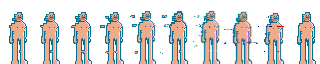
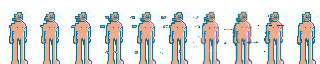
Sprite Studio UI overhaul: timeline slots, toolbar redesign, panel cleanup; ignore TAH!PES

diff --git a/AH-Sprite-Studio.html b/AH-Sprite-Studio.html
@@ -46,7 +46,8 @@
   #editCanvasWrap{position:relative;flex:none}   /* hugs the canvas exactly → grid background aligns pixel-perfect at any zoom */
   #edSelBox{position:absolute;left:0;top:0;width:0;height:0;display:none;border:1px dashed var(--accent2);box-shadow:0 0 0 1px #0008;pointer-events:none;z-index:3}
   #editCanvas{image-rendering:pixelated;touch-action:none;cursor:crosshair;box-shadow:0 0 0 1px #0003;flex:none;display:block}
-  #editTools{display:flex;gap:4px;align-items:center;padding:5px 7px;border-top:1px solid var(--line);background:#191822;flex-wrap:wrap}
+  #editTools{display:flex;flex-direction:column;gap:5px;padding:5px 7px;border-top:1px solid var(--line);background:#191822}
+  .etoolsRow{display:flex;gap:4px;align-items:center;flex-wrap:wrap}
   .etool{width:27px;height:24px;display:flex;align-items:center;justify-content:center;border:1px solid var(--line);border-radius:4px;background:#0e0d13;color:var(--ink);cursor:pointer;font-size:13px;padding:0;line-height:1}
   .etool.on{border-color:var(--accent);color:var(--accent);background:#ffb0381a}
   .etool:disabled{opacity:.3;cursor:default}
@@ -56,7 +57,7 @@
   .ebtn:hover{border-color:var(--accent);color:var(--accent)}
   /* PROJECT / files */
   #project{flex:.85}
-  .addbtn{border:1px dashed var(--line);border-radius:6px;padding:14px;text-align:center;color:var(--dim);cursor:pointer;transition:.15s}
+  .addbtn{border:1px dashed var(--line);border-radius:6px;padding:4px;text-align:center;color:var(--dim);cursor:pointer;transition:.15s}
   .addbtn:hover,.addbtn.drag{border-color:var(--accent);color:var(--accent);background:#ffb0380d}
   .flist{margin-top:10px;display:flex;flex-direction:column;gap:4px}
   .frow{display:flex;align-items:center;gap:8px;padding:6px 8px;border-radius:5px;cursor:pointer;border:1px solid transparent}
@@ -89,12 +90,12 @@
   /* ANIMATION (now a bar docked under the PREVIEW/EDITOR stage) */
   #animBar{border-top:1px solid var(--line);padding:8px 10px;flex:none;background:#191822}
   .transport{display:flex;gap:6px;margin-bottom:12px}
-  .tb{flex:1;background:var(--panel2);border:1px solid var(--line);color:var(--ink);border-radius:6px;padding:6px 0;font-size:15px;cursor:pointer}   /* height trimmed ~20% */
+  .tb{flex:1;background:var(--panel2);border:1px solid var(--line);color:var(--ink);border-radius:6px;padding:2px 0;font-size:15px;cursor:pointer}   /* height trimmed ~20% */
   .tb:hover{border-color:var(--accent);color:var(--accent)}
   .tb.play{background:var(--accent);color:#111;border-color:var(--accent)}
   .field{display:flex;align-items:center;gap:8px;margin-bottom:9px}
   .field label{width:74px;color:var(--dim);font-size:11px;letter-spacing:1px}
-  .field input{background:#0e0d13;border:1px solid var(--line);color:var(--ink);border-radius:5px;padding:6px 8px;font:inherit;width:100%}
+  .field input{background:#0e0d13;border:1px solid var(--line);color:var(--ink);border-radius:5px;padding:3px 4px;font:inherit;width:20%}
   .field input:focus{outline:0;border-color:var(--accent)}
   .field .unit{color:var(--dim);font-size:10px;flex:none}
   .stepbtn{flex:none;width:22px;height:26px;background:#0e0d13;border:1px solid var(--line);color:var(--ink);border-radius:4px;font:inherit;font-size:13px;cursor:pointer;line-height:1;padding:0}
@@ -111,7 +112,7 @@
   .ruler{height:22px;position:relative;border-bottom:1px solid var(--line);flex:none;color:var(--dim);font-size:9px}
   .ruler .tick{position:absolute;top:0;bottom:0;border-left:1px solid var(--line)}
   .ruler .tick span{position:absolute;top:2px;left:3px}
-  .track{flex:1;display:flex;align-items:center;gap:0;padding:10px 0;overflow-x:auto;overflow-y:hidden;min-height:0;position:relative}
+  .track{flex:1;display:flex;align-items:center;gap:0;padding:10px 14px;overflow-x:auto;overflow-y:hidden;min-height:0;position:relative}
   .track.drag{background:#57d6c40d;box-shadow:inset 0 0 0 2px var(--accent2)}
   .slot{position:relative;flex:none;border:1px solid var(--line);border-radius:4px;margin:0 3px;background:#0005;cursor:grab;image-rendering:pixelated}
   .slot canvas{display:block;image-rendering:pixelated}
@@ -157,36 +158,40 @@
 </style>
 
 <header>
-  <div class="hleft"><span class="vtabs"><span class="vtab on" id="tabPreview">PREVIEW</span><span class="vsep">·</span><span class="vtab" id="tabEditor">EDITOR</span></span> <span id="pvinfo" class="muted"></span></div>
+  <div class="hleft"></div>
   <b class="htitle"><img src="assets/AH!logo.png" alt="AH!" class="logo-mark"> STUDIO</b>
-  <a class="hright backlink" href="/" title="Back to alterhero.xyz">← BACK</a>
+  <a class="hright backlink" href="home.html" title="Back to alterhero.xyz">← BACK</a>
 </header>
 
 <div class="row">
   <section class="panel" id="preview">
+    <div class="ptitle"><span class="vtabs"><span class="vtab on" id="tabPreview">PREVIEW</span><span class="vsep">·</span><span class="vtab" id="tabEditor">EDITOR</span></span><span id="pvinfo" class="muted"></span></div>
     <div class="stage"><canvas id="previewCanvas" width="64" height="64"></canvas>
       <div id="editorWrap">
         <div id="editScroll"><div id="editCanvasWrap"><canvas id="editCanvas" width="32" height="32"></canvas><div id="edSelBox"></div></div></div>
         <div id="editTools">
-          <button class="etool on" id="tBrush" title="Pixel brush">✏️</button>
-          <button class="etool" id="tEraser" title="Eraser">🧽</button>
-          <input type="color" id="editColor" value="#e24b4a" title="Color wheel">
-          <button class="etool" id="tEye" title="Eyedropper — tap a pixel to pick its color">🩸</button>
-          <span class="vsep">|</span>
-          <button class="etool" id="tSelect" title="Select a zone, then nudge it with the arrows">▭</button>
-          <button class="etool" id="nLeft" title="Nudge selection left 1px" disabled>◀</button>
-          <button class="etool" id="nUp" title="Nudge selection up 1px" disabled>▲</button>
-          <button class="etool" id="nDown" title="Nudge selection down 1px" disabled>▼</button>
-          <button class="etool" id="nRight" title="Nudge selection right 1px" disabled>▶</button>
-          <span class="vsep">|</span>
-          <button class="etool" id="tUndo" title="Undo" disabled>↶</button>
-          <button class="etool" id="tRedo" title="Redo" disabled>↷</button>
-          <span class="vsep">|</span>
-          <select id="editZoom" title="Zoom">
-            <option value="1">×1</option><option value="2">×2</option><option value="4">×4</option><option value="8" selected>×8</option>
-          </select>
-          <button class="ebtn" id="editNew">New</button>
-          <button class="ebtn" id="editSave">Save to library ▸</button>
+          <div class="etoolsRow">
+            <button class="etool on" id="tBrush" title="Pixel brush">✎</button>
+            <button class="etool" id="tEraser" title="Eraser">⌫</button>
+            <input type="color" id="editColor" value="#e24b4a" title="Color wheel">
+            <button class="etool" id="tEye" title="Eyedropper — tap a pixel to pick its color">◉</button>
+            <span class="vsep">|</span>
+            <button class="etool" id="tSelect" title="Select a zone, then nudge it with the arrows">▭</button>
+            <button class="etool" id="nLeft" title="Nudge selection left 1px" disabled>◀</button>
+            <button class="etool" id="nUp" title="Nudge selection up 1px" disabled>▲</button>
+            <button class="etool" id="nDown" title="Nudge selection down 1px" disabled>▼</button>
+            <button class="etool" id="nRight" title="Nudge selection right 1px" disabled>▶</button>
+            <span class="vsep">|</span>
+            <button class="etool" id="tUndo" title="Undo" disabled>↶</button>
+            <button class="etool" id="tRedo" title="Redo" disabled>↷</button>
+          </div>
+          <div class="etoolsRow">
+            <select id="editZoom" title="Zoom">
+              <option value="1">×1</option><option value="2">×2</option><option value="4">×4</option><option value="8" selected>×8</option>
+            </select>
+            <button class="ebtn" id="editNew">New</button>
+            <button class="ebtn" id="editSave">Save to library ▸</button>
+          </div>
         </div>
       </div>
     </div>
@@ -208,7 +213,7 @@
         <button class="tb" id="tNext"  title="step forward">▶|</button>
         <button class="tb" id="tLast"  title="last frame">▶▶|</button>
       </div>
-      <div class="fieldpair">
+      <div class="fieldpair" style="margin-bottom:0">
         <div class="field" title="frames per second">
           <label>FPS</label>
           <button type="button" class="stepbtn" id="fpsDown">−</button>
@@ -216,21 +221,19 @@
           <button type="button" class="stepbtn" id="fpsUp">+</button>
         </div>
         <div class="field" title="frames on timeline"><label>FRAMES</label><input id="samples" type="number" value="0" readonly></div>
-      </div>
-      <div class="field" style="margin-bottom:0">
-        <label>NAME</label><input id="animName" type="text" value="animation">
         <button id="exportBtn">EXPORT ▸</button>
       </div>
+      <div style="display:none"><input id="animName" type="text" value="animation"></div>
     </div>
   </section>
 
   <div class="rightTop">
   <section class="panel" id="project">
-    <div class="ptitle">LIBRARY <span id="saveLib" title="save this session in this browser" style="cursor:pointer;color:var(--accent)">💾 save</span></div>
+    <div class="ptitle"><span id="saveLib" title="save this session in this browser" style="cursor:pointer;color:var(--accent);margin-left:auto">💾 save</span></div>
     <div class="pbody">
       <div style="display:flex;gap:6px">
         <div class="addbtn" id="addFolder" style="flex:1">+ FOLDER</div>
-        <div class="addbtn" id="addbtn" style="flex:2">+ IMPORT<br><span style="font-size:10px">click or drop files</span></div>
+        <div class="addbtn" id="addbtn" style="flex:2">+ IMPORT PNG</div>
       </div>
       <input type="file" id="fileInput" accept="image/png,image/*" multiple>
       <div class="flist" id="flist"></div>
@@ -238,7 +241,7 @@
   </section>
 
   <section class="panel" id="browser">
-    <div class="ptitle">FILE · FRAMES</div>
+    <div class="ptitle">FRAMES</div>
     <div class="pbody" id="browserBody">
       <div class="muted">Select a PNG on the left. Then <b>Slice</b> it into frames.</div>
     </div>
@@ -246,7 +249,7 @@
   </div>
 
   <section class="panel" id="timeline">
-    <div class="ptitle"><span>TIMELINE <span class="muted">— drag frames here to build the animation</span></span><button id="saveProject" class="ebtn" title="Save this project (library + timeline + settings) in the browser">💾 SAVE PROJECT</button></div>
+    <div class="ptitle"><span>TIMELINE</span><div id="tlSlots" style="display:flex;gap:4px;align-items:center"></div></div>
     <div class="pbody" style="display:flex;padding:0">
       <div class="tlwrap">
         <div class="ruler" id="ruler"></div>
@@ -303,6 +306,55 @@
   var $=function(s){return document.querySelector(s)};
   var uid=0;
   var S={ files:[], folders:[], curFolder:null, selId:null, timeline:[], fps:12, name:'animation', playhead:0, playing:false, zoom:'auto', grid:true };
+  S.slots=[{timeline:S.timeline}]; S.curSlotIdx=0;   // TIMELINE slots — slot #1's array IS S.timeline (same reference), so anything that mutates S.timeline (push/splice) stays in sync automatically
+  function renderSlots(){
+    var wrap=$('#tlSlots'); if(!wrap) return;
+    wrap.innerHTML='';
+    S.slots.forEach(function(sl,i){
+      var on=(i===S.curSlotIdx);
+      var item=document.createElement('span'); item.className='ebtn';
+      item.style.cssText='display:inline-flex;align-items:center;gap:5px;padding:3px 6px 3px 8px'+(on?';border-color:var(--accent);color:var(--accent)':'');
+      var num=document.createElement('span'); num.textContent='#'+(i+1); num.style.cursor='pointer';
+      num.onclick=function(){ switchSlot(i); };
+      item.appendChild(num);
+      if(S.slots.length>1){                                        // every slot gets its own × — no need to select it first
+        var x=document.createElement('span'); x.textContent='×'; x.title='delete this timeline';
+        x.style.cssText='cursor:pointer;opacity:.55;font-size:13px;line-height:1';
+        x.onmouseenter=function(){ x.style.opacity='1'; x.style.color='var(--danger)'; };
+        x.onmouseleave=function(){ x.style.opacity='.55'; x.style.color=''; };
+        x.onclick=function(e){ e.stopPropagation(); deleteSlot(i); };
+        item.appendChild(x);
+      }
+      wrap.appendChild(item);
+    });
+    var add=document.createElement('button'); add.className='ebtn'; add.textContent='+'; add.title='new timeline slot';
+    add.onclick=function(){
+      S.slots.push({timeline:[]});
+      switchSlot(S.slots.length-1);
+    };
+    wrap.appendChild(add);
+  }
+  function switchSlot(i){
+    if(i===S.curSlotIdx) return;
+    S.slots[S.curSlotIdx].timeline=S.timeline;   // stash current slot's array reference (defensive — normally already the same object)
+    S.curSlotIdx=i; S.timeline=S.slots[i].timeline; S.playhead=0;
+    renderSlots(); renderTimeline();
+  }
+  function deleteSlot(i){
+    if(S.slots.length<=1) return;                                  // always keep at least one timeline
+    var sl=S.slots[i], n=(sl.timeline||[]).length;
+    if(n>0 && !confirm('Delete timeline #'+(i+1)+'? It has '+n+' frame'+(n===1?'':'s')+' — this can\'t be undone.')) return;
+    var wasActive=(S.curSlotIdx===i);
+    S.slots.splice(i,1);
+    if(wasActive){
+      var next=Math.min(i, S.slots.length-1);
+      S.curSlotIdx=-1;                                             // force switchSlot() to actually apply (its guard skips a no-op index change)
+      switchSlot(next);
+    } else {
+      if(S.curSlotIdx>i) S.curSlotIdx--;                           // shift index down — a slot BEFORE the active one was removed
+      renderSlots();
+    }
+  }
 
   /* ---------- load PNGs ---------- */
   function loadImage(dataURL,name,opts){
@@ -312,7 +364,8 @@
       img.onload=function(){
         var f={id:++uid, name:name||('sheet'+uid+'.png'), url:dataURL, original:dataURL, modified:false, img:img,
                folderId:(opts.folderId!==undefined?opts.folderId:S.curFolder), source:opts.source||'local',
-               frameW:guessSize(img.width), frameH:guessSize(img.height), frames:[], open:true};
+               frameW:(typeof opts.frameW==='number'?opts.frameW:guessSize(img.width)),
+               frameH:(typeof opts.frameH==='number'?opts.frameH:guessSize(img.height)), frames:[], open:true};
         S.files.push(f);
         if(!opts.silent){ S.selId=f.id; renderFiles(); renderBrowser(); }
         res(f.id);
@@ -338,7 +391,7 @@
   /* ---------- LIBRARY (assets/sprites/, read from manifest.json) — ingested as real folders+files, merged into the SAME tree ---------- */
   var LIB_ROOT='assets/sprites/';
   function loadLibraryManifest(){
-    fetch(LIB_ROOT+'manifest.json').then(function(r){ if(!r.ok) throw 0; return r.json(); })
+    fetch(LIB_ROOT+'manifest.json', {cache:'no-store'}).then(function(r){ if(!r.ok) throw 0; return r.json(); })
       .then(ingestLibrary)
       .catch(function(){});
   }
@@ -352,9 +405,13 @@
       Object.keys(chars).forEach(function(charName){
         var charId='lib:'+cat+'/'+charName;
         if(!S.folders.some(function(x){return x.id===charId;})) S.folders.push({id:charId,name:charName,open:false,parentId:catId,fromLibrary:true});
-        (chars[charName]||[]).forEach(function(fn){
+        (chars[charName]||[]).forEach(function(entry){
+          var isObj = entry && typeof entry==='object';        // manifest entries can be a plain "file.png" string, or {file,frameW,frameH}
+          var fn = isObj ? entry.file : entry;
+          if(!fn) return;
           var url=LIB_ROOT+encodeURIComponent(cat)+'/'+encodeURIComponent(charName)+'/'+encodeURIComponent(fn);
-          chain=chain.then(function(){ return loadImage(url, fn, {folderId:charId, source:'library', silent:true}); });
+          chain=chain.then(function(){ return loadImage(url, fn, {folderId:charId, source:'library', silent:true,
+            frameW:isObj?entry.frameW:undefined, frameH:isObj?entry.frameH:undefined}); });
         });
       });
     });
@@ -660,8 +717,10 @@
     var slots=$('#track').querySelectorAll('.slot');
     slots.forEach(function(el,i){
       var d=document.createElement('div');
-      d.style.cssText='position:absolute;top:4px;left:'+(el.offsetLeft+el.offsetWidth/2-4)+'px;color:var(--accent2);font-size:9px';
-      d.textContent='◆'; ruler.appendChild(d);
+      d.style.cssText='position:absolute;top:1px;left:'+(el.offsetLeft+el.offsetWidth/2)+'px;transform:translateX(-50%);color:#fff;font-size:16px;line-height:1;cursor:pointer';
+      d.textContent='◇'; d.title='jump to frame '+(i+1);           // hollow diamond, white outline only — bigger + clickable
+      d.onclick=function(){ setPlayhead(i); };                        // same jump-and-highlight as clicking the frame itself
+      ruler.appendChild(d);
       if(i%5===0){ var t=document.createElement('div'); t.className='tick'; t.style.left=el.offsetLeft+'px';
         var s=document.createElement('span'); s.textContent=i+1; t.appendChild(s); ruler.appendChild(t); }
     });
@@ -914,9 +973,9 @@
     }).catch(function(){ S.ready=true; });
   }
   $('#saveLib').onclick=saveLibrary;
-  $('#saveProject').onclick=saveLibrary;
   window.addEventListener('pagehide',function(){ if(S.ready) IDB.set('project',buildProject()).catch(function(){}); });
   document.addEventListener('visibilitychange',function(){ if(document.visibilityState==='hidden'&&S.ready) IDB.set('project',buildProject()).catch(function(){}); });
+  renderSlots();
   restoreLibrary();
   loadLibraryManifest();
 